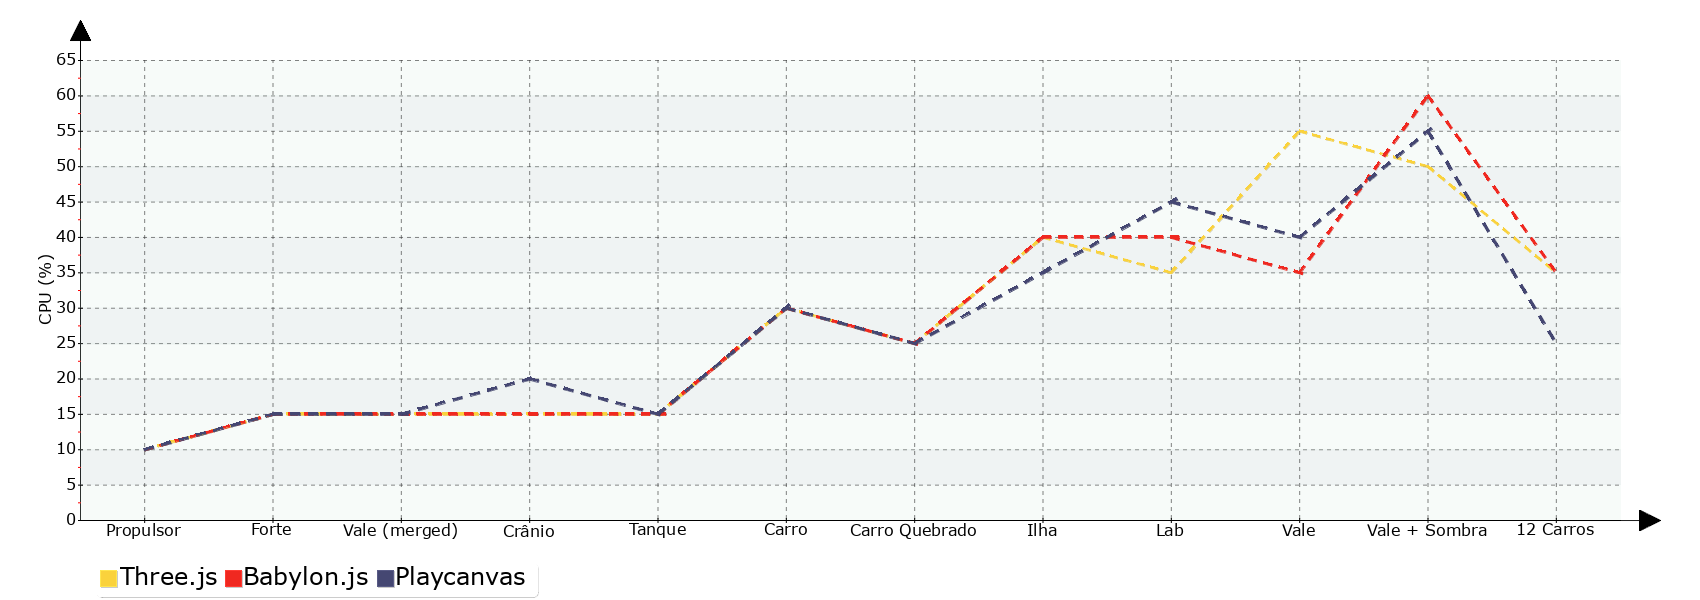
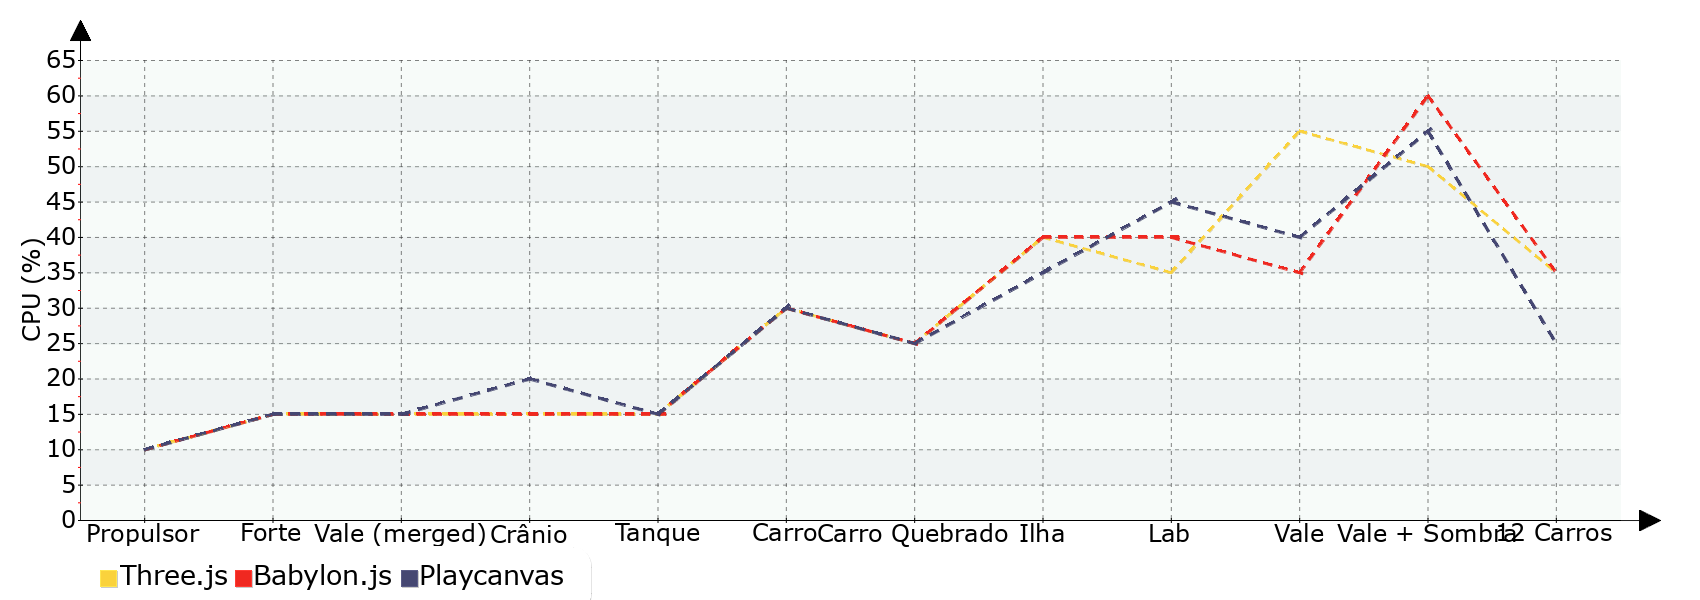
Finalizado no Linux

diff --git a/main.php b/main.php
@@ -10,8 +10,9 @@ const IMAGE_WIDTH = 1700;
 const IMAGE_HEIGHT = 600;
 const OUTER_PADDING = 100;
 
-$legendConfig = ['Mode' => LEGEND_HORIZONTAL, "R" => 255, "G" => 255, "B" => 255, 'BoxWidth' => 16, 'BoxHeight' => 16, "Alpha" => 255, "FontSize" => 18, "Family" => LEGEND_FAMILY_BOX];
-$barConfig = ["Rounded" => true, "Surrounding" => 30, "DisplayValues" => false, "DisplayPos" => LABEL_POS_OUTSIDE, "Gradient" => true];
+$legendConfig = ['Mode' => LEGEND_HORIZONTAL, "R" => 255, "G" => 255, "B" => 255, 'BoxWidth' => 16, 'BoxHeight' => 16, "Alpha" => 255, "FontSize" => 20, "Family" => LEGEND_FAMILY_BOX, 'Margin' => 20];
+$barConfig = ["Rounded" => true, "Surrounding" => 30, "DisplayValues" => false, "DisplayPos" => LABEL_POS_OUTSIDE, "Gradient" => true,];
+
 
 $db = getDatabase();
 
@@ -56,7 +57,7 @@ $query = "select ";
 foreach ($camps as $camp) {
     $query .= "avg($camp[0]) $camp[1],";
 }
-    $query .= "library, scene, browser, pc from rendering group by browser, pc, scene, library";
+$query .= "library, scene, browser, pc from rendering group by browser, pc, scene, library";
 
 $result = $db->query($query);
 
@@ -123,8 +124,7 @@ $dataNPM = [
     ],
 ];
 
-function makeNPMCharts($data, $libraries)
-{
+function makeNPMCharts($data, $libraries) {
     $npmTestLabels = [
         'NPM' => ['Principal', 'Total'],
         'Código' => ['Bundled', 'Minificado', 'Minificado + GZIP'],
@@ -142,19 +142,21 @@ function makeNPMCharts($data, $libraries)
     ]);
 
     $image = getImage(IMAGE_WIDTH, IMAGE_HEIGHT);
-    $outerPadding = OUTER_PADDING - 20;
-    $innerPadding = OUTER_PADDING;
+    $outerPadding = OUTER_PADDING + 10;
+    $innerPadding = OUTER_PADDING + 10;
     $totalWidth = (IMAGE_WIDTH - ($outerPadding * 2 + $innerPadding));
     $width = 0.6 * $totalWidth;
     $height = IMAGE_HEIGHT - 60 - 80;
     $cursor = getCursor();
-    $settings = [];
+    $settings = [
+        'MinDivHeight' => 40,
+    ];
 
     cursorMove($cursor, $outerPadding, 60);
 
     $libraries = [
         'Three' => 'Three.js',
-        'BabYlon' => 'Babylon.js',
+        'Babylon' => 'Babylon.js',
         'pc' => 'Playcanvas',
         'pc-editor' => 'Playcanvas',
     ];
@@ -167,7 +169,8 @@ function makeNPMCharts($data, $libraries)
                 $data->addPoints($infoData[$lib], $libName);
         }
         foreach ($palletes as $lib => $colors)
-            $data->setPalette($libraries[$lib], $colors);
+            if (isset($libraries[$lib]))
+                $data->setPalette($libraries[$lib], $colors);
 
         $data->addPoints($npmTestLabels[$infoName], 'types');
         $data->setAbscissa('types');
@@ -175,10 +178,7 @@ function makeNPMCharts($data, $libraries)
 
         cursorSetSize($cursor, $width, $height);
         imageStartDraw($image, $cursor, $data, $settings);
-        $settings = [
-            'Pos' => SCALE_POS_TOPBOTTOM,
-            'Factors' => [40]
-        ];
+        $settings['Pos'] = SCALE_POS_TOPBOTTOM;
         $image->drawBarChart($npmBarConfig);
         cursorMove($cursor, $width + $innerPadding);
         $width = 0.4 * $totalWidth;
@@ -191,27 +191,26 @@ function makeNPMCharts($data, $libraries)
 $dataCPU = [
     'linux' => [
         'CPU' => [
-            'Three' => [10,15,15,15,15,30,25,40,35,55,50,35],
-            'Babylon' => [10,15,15,15,15,30,25,40,40,35,60,35],
-            'pc-editor' => [10,15,15,20,15,30,25,35,45,40,55,25]
+            'Three' => [10, 15, 15, 15, 15, 30, 25, 40, 35, 55, 50, 35],
+            'Babylon' => [10, 15, 15, 15, 15, 30, 25, 40, 40, 35, 60, 35],
+            'pc-editor' => [10, 15, 15, 20, 15, 30, 25, 35, 45, 40, 55, 25]
         ],
     ],
     'windows' => [
         'CPU' => [
-            'Three' => [5, 5, 5, 5, 5, 10, 15, 10, 15,20, 30, 55, 100],
-            'Babylon' => [5, 5, 5, 5, 5, 10, 10, 10, 15, 15, 25, 35,75],
-            'pc-editor' => [5,5, 5,5,5,5,5,10,10,15,30,35,100],
+            'Three' => [5, 5, 5, 5, 5, 10, 15, 10, 15, 20, 30, 55, 100],
+            'Babylon' => [5, 5, 5, 5, 5, 10, 10, 10, 15, 15, 25, 35, 75],
+            'pc-editor' => [5, 5, 5, 5, 5, 5, 5, 10, 10, 15, 30, 35, 100],
         ],
         'RAM' => [
-            'Three' => [5, 5.8, 4.5, 6.3, 5.0, 10, 15, 15, 16,16.8,16.8, 29, 42],
-            'Babylon' => [13, 14.4,14,14.2, 12, 18, 19.6, 24, 28.7, 27,44,64, 121],
-            'pc-editor' => [8,9.5, 10.3,14.5,10.5,18,15.5,20,32.6,41,43.5,52,133],
+            'Three' => [5, 5.8, 4.5, 6.3, 5.0, 10, 15, 15, 16, 16.8, 16.8, 29, 42],
+            'Babylon' => [13, 14.4, 14, 14.2, 12, 18, 19.6, 24, 28.7, 27, 44, 64, 121],
+            'pc-editor' => [8, 9.5, 10.3, 14.5, 10.5, 18, 15.5, 20, 32.6, 41, 43.5, 52, 133],
         ]
     ]
 ];
 
-function makeCpuCharts($dataCPU, $libraries)
-{
+function makeCpuCharts($dataCPU, $libraries) {
     global $barConfig, $legendConfig, $palletes;
     global $cpuGroups, $cpuLabelMap;
 
@@ -231,7 +230,7 @@ function makeCpuCharts($dataCPU, $libraries)
     $outerPadding = OUTER_PADDING - 20;
     $width = IMAGE_WIDTH - $outerPadding * 2;
     $height = IMAGE_HEIGHT - 60 - 80;
-    $settings = [ 'MinDivHeight' => 20, ];
+    $settings = ['MinDivHeight' => 30,];
 
     foreach ($dataCPU as $pcName => $pc) {
         foreach ($pc as $infoName => $infoData) {
@@ -253,7 +252,7 @@ function makeCpuCharts($dataCPU, $libraries)
                     $data->setPalette($libraries[$lib], $colors);
             }
 
-            $data->addPoints(array_map(fn($item) => $cpuLabelMap[$item], $cpuGroups[$pcName]), 'scenes');
+            $data->addPoints(array_map(fn ($item) => $cpuLabelMap[$item], $cpuGroups[$pcName]), 'scenes');
             $data->setAbscissa('scenes');
             $data->setAxisName(0, $cpuAxisNames[$infoName]);
 
@@ -286,8 +285,7 @@ while ($row = $result->fetch_assoc()) {
     $dataModelLoading[$pc][$library]['startup'] = (int)$ms;
 }
 
-function makeLoadingChart($dataModelLoading, $libraries)
-{
+function makeLoadingChart($dataModelLoading, $libraries) {
     $labelMap = [
         'startup' => 'Inicialização',
         'pirate' => 'Forte Pirata',
@@ -313,7 +311,7 @@ function makeLoadingChart($dataModelLoading, $libraries)
     global $barConfig, $legendConfig, $palletes;
 
     $LoadingbarConfig = array_merge($barConfig, [
-            "DisplayValues" => true
+        "DisplayValues" => true
     ]);
 
     foreach ($dataModelLoading as $pcName => $pc) {
@@ -322,7 +320,9 @@ function makeLoadingChart($dataModelLoading, $libraries)
         $width = (IMAGE_WIDTH - ($outerPadding * 2));
         $height = IMAGE_HEIGHT - 60 - 80;
         $cursor = getCursor();
-        $settings = [];
+        $settings = [
+            'MinDivHeight' => 40,
+        ];
 
         cursorMove($cursor, $outerPadding, 50);
         $data = new Data();
@@ -335,6 +335,8 @@ function makeLoadingChart($dataModelLoading, $libraries)
                 if (isset($pc[$lib][$scene])) {
                     $points[] = $pc[$lib][$scene];
                     $usedScenes[$scene] = true;
+                } else {
+                    $points[] = VOID;
                 }
             }
             $data->addPoints($points, $libName);
@@ -362,15 +364,13 @@ function makeLoadingChart($dataModelLoading, $libraries)
     }
 }
 
-function makeBarCharts($dataAvg, $libraries)
-{
+function makeBarCharts($dataAvg, $libraries) {
     foreach ($dataAvg as $browserName => $browser) {
         makeAvgChart("./avgs/$browserName", $browser, $libraries);
     }
 }
 
-function getImage($width, $height)
-{
+function getImage($width, $height) {
     $image = new Image($width, $height);
     /* $image->drawRectangle(0, 0, $width - 0, $height - 0, makeArrayColor(0, 0, 0)); */
 
@@ -383,8 +383,7 @@ function getImage($width, $height)
     return $image;
 }
 
-function getData(array $pointData, ?string $abcissaName)
-{
+function getData(array $pointData, ?string $abcissaName) {
     $data = new Data();
     foreach ($pointData as $points) {
         $data->addPoints($points['values'], $points['name']);
@@ -394,28 +393,24 @@ function getData(array $pointData, ?string $abcissaName)
     return $data;
 }
 
-function getCursor()
-{
+function getCursor() {
     return [
         'xStart' => 0,
         'yStart' => 0,
     ];
 }
 
-function cursorSetSize(&$layout, $width, $height)
-{
+function cursorSetSize(&$layout, $width, $height) {
     $layout['xEnd'] = $layout['xStart'] + $width;
     $layout['yEnd'] = $layout['yStart'] + $height;
 }
 
-function cursorMove(&$layout, $x = 0, $y = 0)
-{
+function cursorMove(&$layout, $x = 0, $y = 0) {
     $layout['xStart'] += $x;
     $layout['yStart'] += $y;
 }
 
-function imageStartDraw(Image $image, &$cursor, $data, $settings = [])
-{
+function imageStartDraw(Image $image, &$cursor, $data, $settings = []) {
     $image->setDataSet($data);
     $drawSettings = [
         "CycleBackground" => true,
@@ -439,25 +434,23 @@ function imageStartDraw(Image $image, &$cursor, $data, $settings = [])
 
     extract($cursor);
 
-    $image->setFontProperties(["FontName" => "verdana.ttf", "FontSize" => 12]);
+    $image->setFontProperties(["FontName" => "verdana.ttf", "FontSize" => 14]);
     $image->setGraphArea($xStart, $yStart, $xEnd, $yEnd);
     $image->drawScale($drawSettings);
     $image->setShadow(true, ["X" => 1, "Y" => 1, "R" => 0, "G" => 0, "B" => 0, "Alpha" => 10]);
 }
 
 
-function makeArrayColor($R, $G, $B)
-{
+function makeArrayColor($R, $G, $B) {
     return compact(["R", "G", "B"]);
 }
 
 
-function makeAvgChart($filename, $browser, $libraries)
-{
+function makeAvgChart($filename, $browser, $libraries) {
     global $legendConfig, $barConfig, $palletes;
 
     $localBarConfig = array_merge($barConfig, [
-            'DisplayValues' => true,
+        'DisplayValues' => true,
     ]);
 
     global $groups;
@@ -490,6 +483,10 @@ function makeAvgChart($filename, $browser, $libraries)
     $width = IMAGE_WIDTH - $outerPadding * 2;
     $height = IMAGE_HEIGHT - 60 - 80;
 
+    $settings = [
+        'MinDivHeight' => 30,
+    ];
+
     foreach ($browser as $pcName => $pc) {
         foreach ($pc as $groupName => $group) {
             $cursor = getCursor();
@@ -511,16 +508,16 @@ function makeAvgChart($filename, $browser, $libraries)
             $data->setAxisName(0, $axisNames[$pcName]);
 
             cursorSetSize($cursor, $width, $height);
-            imageStartDraw($image, $cursor, $data);
+            imageStartDraw($image, $cursor, $data, $settings);
             $image->drawBarChart($localBarConfig);
 
             $image->drawLegend(OUTER_PADDING, IMAGE_HEIGHT - 30, $legendConfig);
-            $image->autoOutput("$filename-frustum-$pcName-$groupName.png");
+            $image->autoOutput("$filename-$pcName-$groupName.png");
         }
     }
 }
 
 /* makeNPMCharts($dataNPM, $libraries); */
-makeBarCharts($datav2, $libraries);
+/* makeBarCharts($datav2, $libraries); */
 makeLoadingChart($dataModelLoading, $libraries);
-makeCpuCharts($dataCPU, $libraries);
+/* makeCpuCharts($dataCPU, $libraries); */
